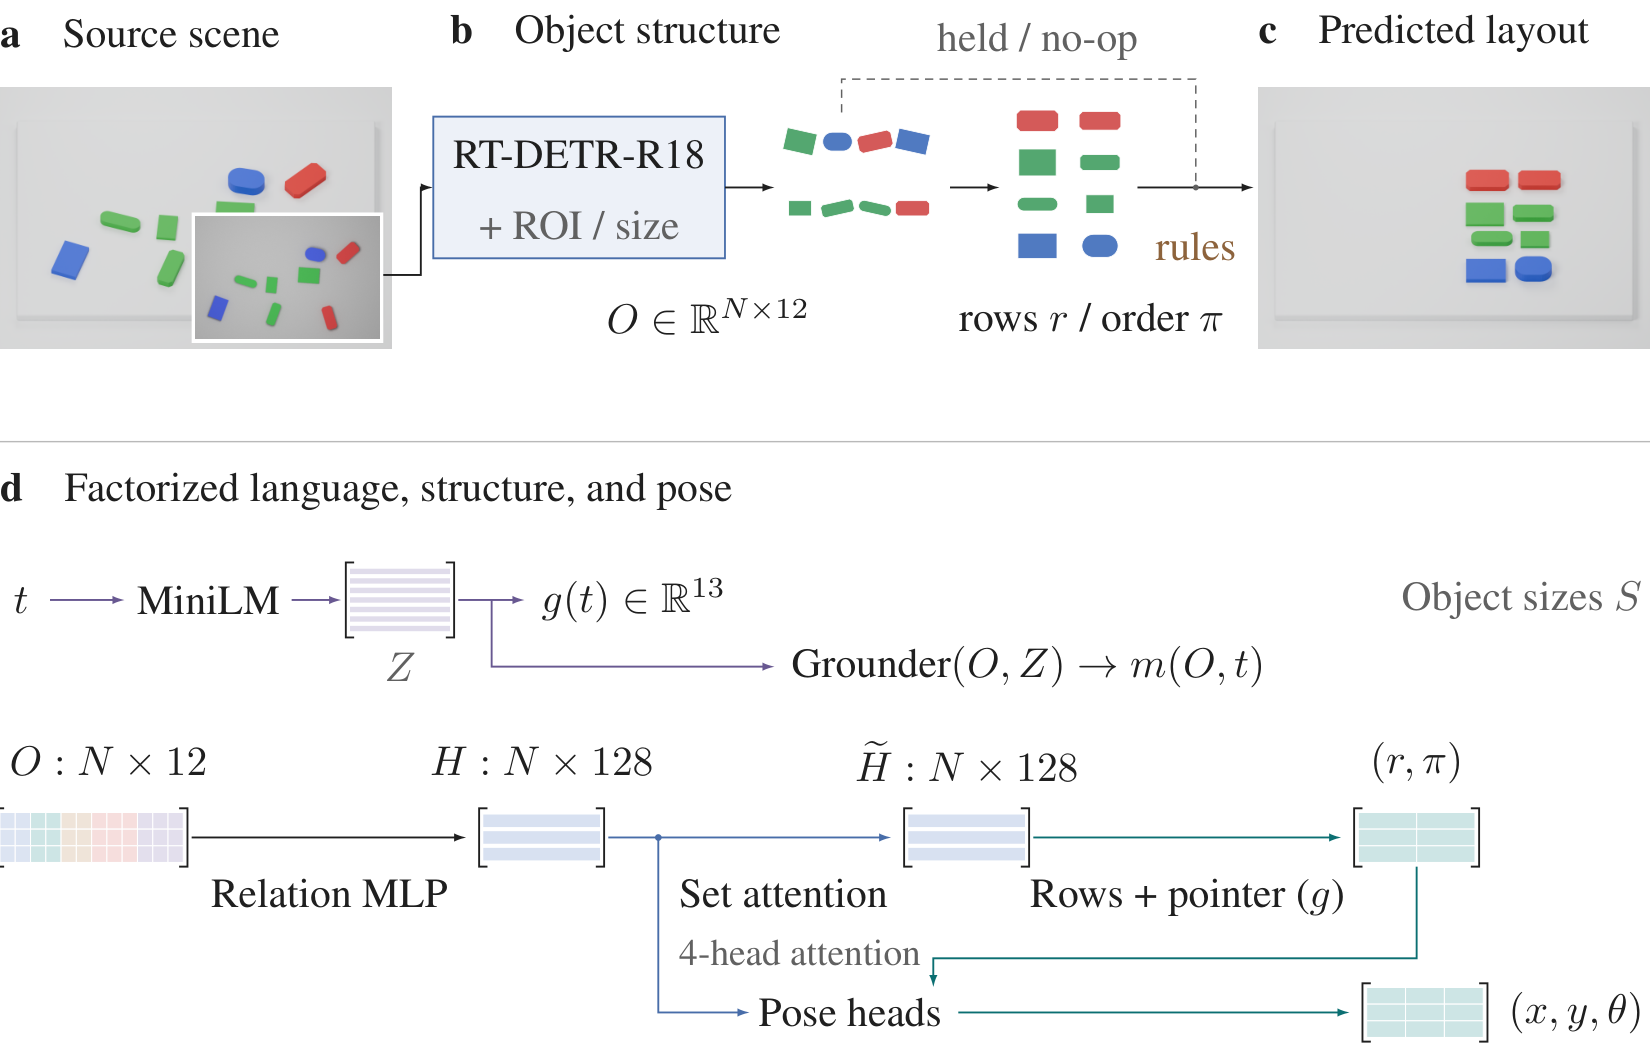
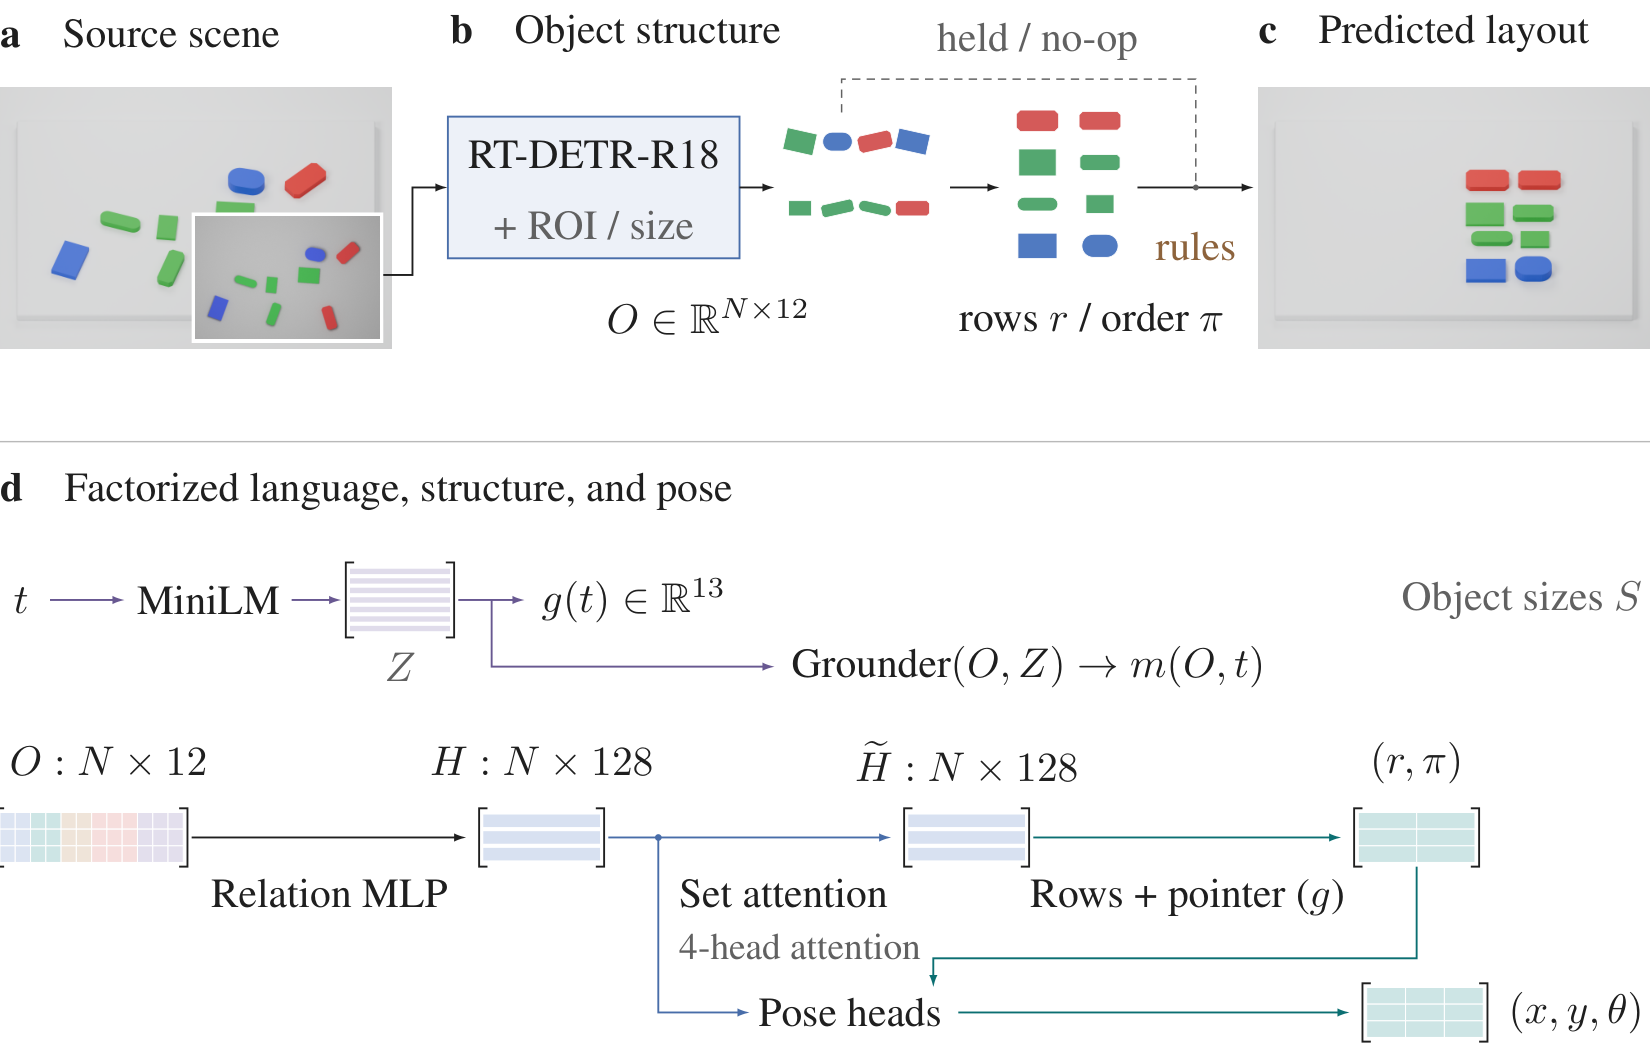
revise paper_submit/

Changed region(s): [[0.2473, 0.1224, 0.4636, 0.2753], [0.4018, 0.8872, 0.5564, 0.9178]]

diff --git a/paper_submit/figure_sources/architecture_main.tex b/paper_submit/figure_sources/architecture_main.tex
@@ -35,11 +35,11 @@
 \node[anchor=north west] at (302,21) {\includegraphics[width=94bp,height=62.6666667bp]{renders/full_after.png}};
 \path[draw=white,line width=1bp,fill=white] (46.5,51.5) rectangle (91.5,81.8333);
 \node[anchor=north west] at (47,52) {\includegraphics[width=44bp,height=29.3333333bp]{audit/evidence/qualitative_full_source.png}};
-\draw[flow] (92,66) -- (101,66) -- (101,45) -- (104,45);
-\path[draw=objectblue!85!ink,line width=.45bp,fill=objectblue!10] (104,28) rectangle (174,62);
-\node[anchor=center] at (139.00000,37.00000) {RT-DETR-R18};
-\node[anchor=center,text=muted] at (139.00000,54.00000) {+ ROI / size};
-\draw[flow] (174,45) -- (186,45);
+\draw[flow] (92,66) -- (99,66) -- (99,45) -- (107.5,45);
+\path[draw=objectblue!85!ink,line width=.45bp,fill=objectblue!10] (107.5,28) rectangle (177.5,62);
+\node[anchor=center] at (142.50000,37.00000) {RT-DETR-R18};
+\node[anchor=center,text=muted] at (142.50000,54.00000) {+ ROI / size};
+\draw[flow] (177.5,45) -- (186,45);
 \path[fill=objectgreen,draw=white,line width=.2bp] (187.8390690,35.7808855) -- (195.0060599,37.3835638) -- (196.1609310,32.2191145) -- (188.9939401,30.6164362) -- cycle;
 \path[fill=objectblue,draw=white,line width=.2bp] (202.2960000,36.2680000) -- (202.7384649,36.2244210) -- (203.1639260,36.0953588) -- (203.5560333,35.8857731) -- (203.8997182,35.6037182) -- (204.1817731,35.2600333) -- (204.3913588,34.8679260) -- (204.5204210,34.4424649) -- (204.5640000,34.0000000) -- (204.5204210,33.5575351) -- (204.3913588,33.1320740) -- (204.1817731,32.7399667) -- (203.8997182,32.3962818) -- (203.5560333,32.1142269) -- (203.1639260,31.9046412) -- (202.7384649,31.7755790) -- (202.2960000,31.7320000) -- (199.7040000,31.7320000) -- (199.2615351,31.7755790) -- (198.8360740,31.9046412) -- (198.4439667,32.1142269) -- (198.1002818,32.3962818) -- (197.8182269,32.7399667) -- (197.6086412,33.1320740) -- (197.4795790,33.5575351) -- (197.4360000,34.0000000) -- (197.4795790,34.4424649) -- (197.6086412,34.8679260) -- (197.8182269,35.2600333) -- (198.1002818,35.6037182) -- (198.4439667,35.8857731) -- (198.8360740,36.0953588) -- (199.2615351,36.2244210) -- (199.7040000,36.2680000) -- cycle;
 \path[fill=objectred,draw=white,line width=.2bp] (207.1416964,36.7971858) -- (213.7774868,35.3132942) -- (214.3519202,34.4079548) -- (213.7636430,31.7772476) -- (212.8583036,31.2028142) -- (206.2225132,32.6867058) -- (205.6480798,33.5920452) -- (206.2363570,36.2227524) -- cycle;
@@ -134,7 +134,7 @@
 \node[anchor=center] at (130.00000,183.00000) {$H:N\times128$};
 \draw[flow,draw=objectblue!85!ink] (146,201) -- (214,201);
 \node[anchor=north, align=center] at (188.00000,211.00000) {Set attention};
-\node[anchor=west,text=muted,font=\fontsize{9}{11}\selectfont] at (163.00000,228.70000) {4-head attention};
+\node[anchor=west,text=muted,font=\fontsize{9}{11}\selectfont] at (163.00000,227.20000) {4-head attention};
 \path[fill=objectblue!22,draw=none] (218,195.5) rectangle (246,198.5);
 \path[fill=objectblue!22,draw=none] (218,199.5) rectangle (246,202.5);
 \path[fill=objectblue!22,draw=none] (218,203.5) rectangle (246,206.5);

diff --git a/paper_submit/scripts/architecture_figure.py b/paper_submit/scripts/architecture_figure.py
@@ -58,11 +58,14 @@ def generate():
     parts.append(picture('renders/full_after.png',302,21,94,62.6666667))
     parts.append(r'\path[draw=white,line width=1bp,fill=white] (46.5,51.5) rectangle (91.5,81.8333);'+'\n')
     parts.append(picture('audit/evidence/qualitative_full_source.png',47,52,44,29.3333333))
-    route([(92,66),(101,66),(101,45),(104,45)])
-    box(104,28,70,34,'objectblue',10)
-    label(139,37,'RT-DETR-R18','center')
-    label(139,54,'+ ROI / size','center',muted=True)
-    route([(174,45),(186,45)])
+    # Leave the image before turning, then match the two arrows. The tip stays short of the glyphs.
+    corner,shaft,tip=99,8.5,186
+    box_x=corner+shaft
+    route([(92,66),(corner,66),(corner,45),(box_x,45)])
+    box(box_x,28,70,34,'objectblue',10)
+    label(box_x+35,37,'RT-DETR-R18','center')
+    label(box_x+35,54,'+ ROI / size','center',muted=True)
+    route([(box_x+70,45),(tip,45)])
     for i,obj in enumerate(objects):
         glyph(obj,192+(i%4)*9,34+(i//4)*16,108,(i%3-1)*.22)
     label(170,76,r'$O\in\mathbb{R}^{N\times12}$','center')
@@ -127,7 +130,7 @@ def generate():
     route([(146,201),(214,201)],color='objectblue!85!ink')
     stack(188,211,'Set attention')
     # Left edge matches "Set attention", so the longer subtitle clears the branch at x=158.
-    label(163,228.7,'4-head attention','west',muted=True,size=9)
+    label(163,227.2,'4-head attention','west',muted=True,size=9)
     tensor(218,195,28,12)
     label(232,183,r'$\widetilde H:N\times128$','center')
     route([(248,201),(322,201)],color='teal!85!ink')
